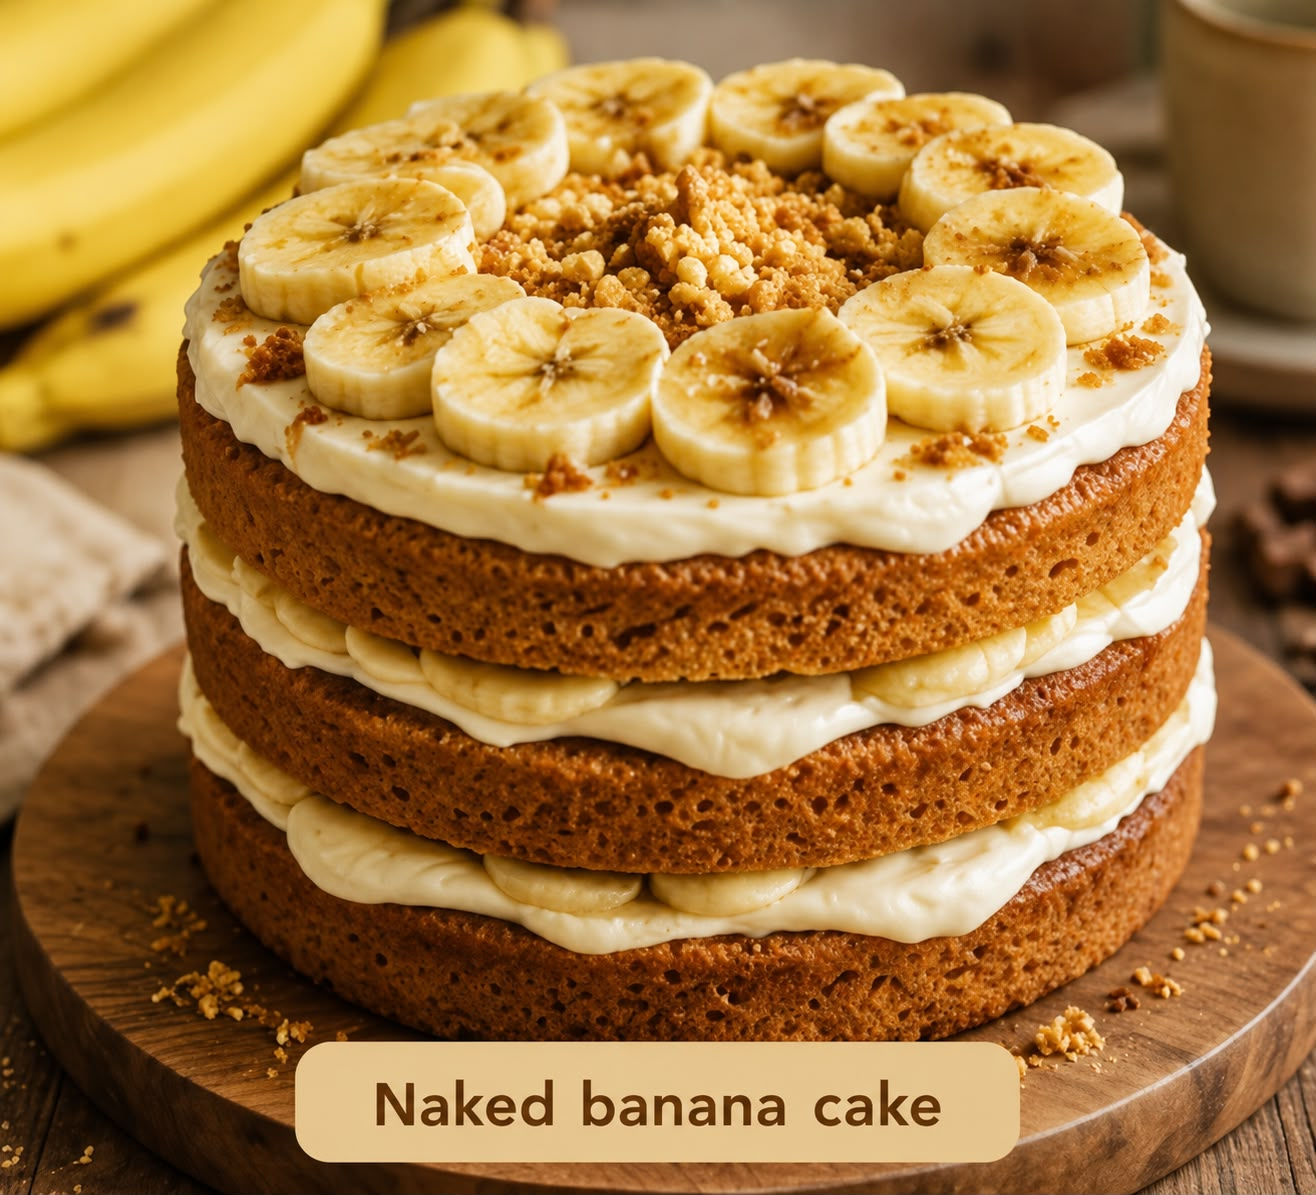
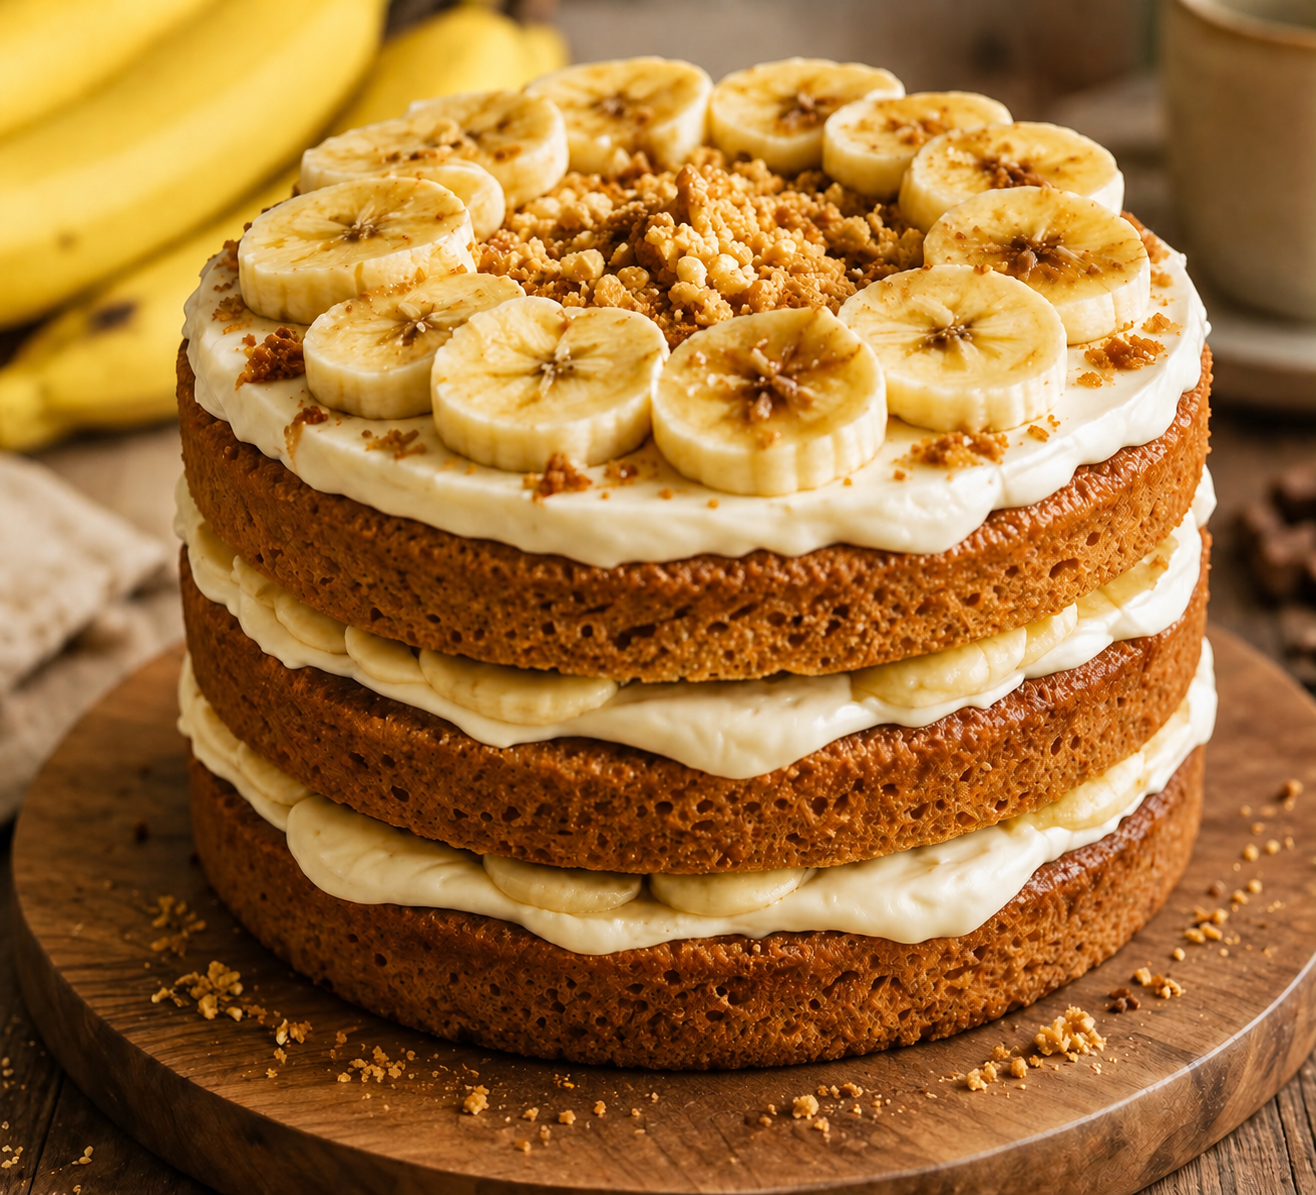
fixing review form and home page

diff --git a/assets/scripts/pages/reviews.js b/assets/scripts/pages/reviews.js
@@ -278,7 +278,8 @@ export default function CustomerReviews() {
         </p>
 
         <form
-          onsubmit="event.preventDefault(); window.handleReviewSubmit && window.handleReviewSubmit(event);"
+          id="reviewForm"
+          onsubmit="event.preventDefault(); window.handleReviewSubmit && window.handleReviewSubmit(event); this.reset();"
           class="max-w-2xl mx-auto space-y-6"
         >
 
@@ -301,15 +302,55 @@ export default function CustomerReviews() {
               <label for="reviewFavourite" class="block text-sm font-semibold text-amber-900 mb-1">
                 Favourite Item
               </label>
-              <input
-                type="text"
+              <select
                 id="reviewFavourite"
                 name="reviewFavourite"
-                placeholder="e.g. Original Banana Cake"
-                class="w-full rounded-lg border border-amber-200 px-4 py-2.5 text-gray-700 placeholder-gray-400 focus:outline-none focus:ring-2 focus:ring-amber-400 focus:border-amber-400"
-              />
+                class="w-full rounded-lg border border-amber-200 px-4 py-2.5 text-gray-700 bg-white focus:outline-none focus:ring-2 focus:ring-amber-400 focus:border-amber-400"
+              >
+                <option value="">Select an item</option>
+
+                <optgroup label="Signature Cakes">
+                  <option value="naked-banana-cake">Naked Banana Cake</option>
+                  <option value="chocolate-banana-cake">Chocolate Banana Cake</option>
+                  <option value="caramel-banana-cake">Caramel Banana Cake</option>
+                  <option value="walnut-banana-loaf">Walnut Banana Loaf</option>
+                </optgroup>
+
+                <optgroup label="Coffee & Lattes">
+                  <option value="iced-banana-latte">Iced Banana Latte</option>
+                  <option value="signature-latte">Signature Latte</option>
+                  <option value="cappuccino">Cappuccino</option>
+                </optgroup>
+
+                <optgroup label="Smoothies">
+                  <option value="classic-banana-smoothie">Classic Banana Smoothie</option>
+                  <option value="strawberry-banana-smoothie">Strawberry Banana Smoothie</option>
+                  <option value="tropical-banana-smoothie">Tropical Banana Smoothie</option>
+                </optgroup>
+
+                <optgroup label="Milkshakes">
+                  <option value="banana-milkshake">Banana Milkshake</option>
+                  <option value="chocolate-banana-milkshake">Chocolate Banana Milkshake</option>
+                </optgroup>
+
+                <optgroup label="Freshly Baked Pastries">
+                  <option value="banana-cupcake">Banana Cupcake</option>
+                  <option value="sweet-bliss-cookies">Sweet Bliss Cookies</option>
+                </optgroup>
+
+                <optgroup label="Sweet Desserts">
+                  <option value="banana-waffles">Banana Waffles</option>
+                  <option value="banana-pudding">Banana Pudding</option>
+                </optgroup>
+
+                <optgroup label="Seasonal Specials">
+                  <option value="banana-biscoff-cake">Banana Biscoff Cake</option>
+                  <option value="summer-banana-mango-smoothie">Summer Banana Mango Smoothie</option>
+                </optgroup>
+
+                <option value="other">Other</option>
+              </select>
             </div>
-          </div>
 
           <div>
             <span class="block text-sm font-semibold text-amber-900 mb-2">
@@ -322,22 +363,22 @@ export default function CustomerReviews() {
               </label>
 
               <input type="radio" id="star4" name="rating" value="4" class="peer/star4 hidden" />
-              <label for="star4" class="cursor-pointer text-gray-300 peer-checked/star4:text-amber-500 hover:text-amber-400">
+              <label for="star4" class="cursor-pointer text-gray-300 peer-checked/star5:text-amber-500 peer-checked/star4:text-amber-500 hover:text-amber-400">
                 <svg width="28" height="28" viewBox="0 0 24 24" fill="currentColor"><path d="M12 2l2.9 6.26L21 9.27l-4.5 4.39L17.8 21 12 17.77 6.2 21l1.3-7.34L3 9.27l6.1-1.01L12 2z"/></svg>
               </label>
 
               <input type="radio" id="star3" name="rating" value="3" class="peer/star3 hidden" />
-              <label for="star3" class="cursor-pointer text-gray-300 peer-checked/star3:text-amber-500 hover:text-amber-400">
+              <label for="star3" class="cursor-pointer text-gray-300 peer-checked/star5:text-amber-500 peer-checked/star4:text-amber-500 peer-checked/star3:text-amber-500 hover:text-amber-400">
                 <svg width="28" height="28" viewBox="0 0 24 24" fill="currentColor"><path d="M12 2l2.9 6.26L21 9.27l-4.5 4.39L17.8 21 12 17.77 6.2 21l1.3-7.34L3 9.27l6.1-1.01L12 2z"/></svg>
               </label>
 
               <input type="radio" id="star2" name="rating" value="2" class="peer/star2 hidden" />
-              <label for="star2" class="cursor-pointer text-gray-300 peer-checked/star2:text-amber-500 hover:text-amber-400">
+              <label for="star2" class="cursor-pointer text-gray-300 peer-checked/star5:text-amber-500 peer-checked/star4:text-amber-500 peer-checked/star3:text-amber-500 peer-checked/star2:text-amber-500 hover:text-amber-400">
                 <svg width="28" height="28" viewBox="0 0 24 24" fill="currentColor"><path d="M12 2l2.9 6.26L21 9.27l-4.5 4.39L17.8 21 12 17.77 6.2 21l1.3-7.34L3 9.27l6.1-1.01L12 2z"/></svg>
               </label>
 
               <input type="radio" id="star1" name="rating" value="1" class="peer/star1 hidden" />
-              <label for="star1" class="cursor-pointer text-gray-300 peer-checked/star1:text-amber-500 hover:text-amber-400">
+              <label for="star1" class="cursor-pointer text-gray-300 peer-checked/star5:text-amber-500 peer-checked/star4:text-amber-500 peer-checked/star3:text-amber-500 peer-checked/star2:text-amber-500 peer-checked/star1:text-amber-500 hover:text-amber-400">
                 <svg width="28" height="28" viewBox="0 0 24 24" fill="currentColor"><path d="M12 2l2.9 6.26L21 9.27l-4.5 4.39L17.8 21 12 17.77 6.2 21l1.3-7.34L3 9.27l6.1-1.01L12 2z"/></svg>
               </label>
             </fieldset>

diff --git a/assets/scripts/pages/home.js b/assets/scripts/pages/home.js
@@ -47,8 +47,7 @@ export default function HomePage() {
            <h3>Signature Cakes</h3>
 
            <p>
-            Our signature naked banana cake features soft banana sponge layers,
-            smooth whipped cream, and fresh banana slices, creating a light and refreshing dessert perfect for any occasion.
+            Discover our signature banana cakes, freshly baked with ripe bananas and carefully selected ingredients. From timeless favourites to indulgent creations, every slice is made to bring out the naturally sweet and comforting flavour of banana.
            </p>
 
            <a href="#/menu"
@@ -64,8 +63,7 @@ export default function HomePage() {
         <div class="category-card">
           <div>
             <h3>Drinks</h3>
-            <p>Fresh smoothies,rich vanilla ice cream blended with bananas and 
-            topped with whipped cream coffee and refreshing beverages.</p>
+            <p>Refresh yourself with our signature banana drinks, blended with creamy, delicious ingredients for the perfect treat. From fruity favourites to rich and indulgent blends, there’s a drink for every banana lover.</p>
            <a href="#/menu"
             class="inline-block mt-6 bg-yellow-600 text-white px-6 py-3 rounded-full font-semibold hover:bg-yellow-700 transition">
             View Menu
@@ -79,48 +77,62 @@ export default function HomePage() {
           <img src="/assets/images/promos/promo.jpeg" alt="Promotions">
           <div>
             <h3>Promotions</h3>
-            <p>Enjoy exciting seasonal offers and exclusive deals.</p>
-            <a href="#/menu"
+            <p>Enjoy more of your favourite banana treats for less! Discover our latest deals, seasonal specials, and exclusive offers on selected cakes, drinks, and more.</p>
+            <a href="#/promotions"
             class="inline-block mt-6 bg-yellow-600 text-white px-6 py-3 rounded-full font-semibold hover:bg-yellow-700 transition">
-            View Menu
+            View Promos
           </a>
           </div>
         </div>
       </section>
 
       <!-- Featured Products -->
-      <section class="featured-products">
-        <h2>Featured Bestsellers</h2>
+      <section>
+        <h2 class="text-3xl md:text-5xl font-bold text-amber-900 mt-8 mb-6">Featured Bestsellers</h2>
 
-        <div class="product-grid">
-          <div class="product-card">
-            <img src="/assets/images/menu/cakes/naked-banana.jpeg" alt="Naked Banana Cake">
-            <h3>Original Banana Cake</h3>
-            <p>Our original favourite made fresh daily.</p>
+        <div class="grid md:grid-cols-3 gap-5 md:gap-6">
+
+          <div class="bg-white rounded-2xl shadow-md overflow-hidden">
+            <img src="/assets/images/menu/cakes/naked-banana.jpeg" alt="Naked Banana Cake" class="w-full aspect-square object-cover" />
+            <div class="p-6">
+              <h3 class="text-lg font-bold text-amber-900 mb-1">Naked Banana Cake</h3>
+              <p class="text-gray-700 leading-6 text-sm">A soft and moist banana cake, lightly layered with smooth cream.</p>
+            </div>
           </div>
 
-          <div class="product-card">
-            <img src="/assets/images/menu/cakes/chocolate.jpeg" alt="Chocolate Banana Cake">
-            <h3>Chocolate Banana Cake</h3>
-            <p>Rich chocolate paired with sweet bananas.</p>
+          <div class="bg-white rounded-2xl shadow-md overflow-hidden">
+            <img src="/assets/images/menu/cakes/chocolate.jpeg" alt="Chocolate Banana Cake" class="w-full aspect-square object-cover" />
+            <div class="p-6">
+              <h3 class="text-lg font-bold text-amber-900 mb-1">Chocolate Banana Cake</h3>
+              <p class="text-gray-700 leading-6 text-sm">Rich chocolate paired with sweet bananas.</p>
+            </div>
           </div>
 
-          <div class="product-card">
-            <img src="/assets/images/menu/drinks/smoothies/banana.jpeg" alt="Banana Smoothie">
-            <h3>Banana Smoothie</h3>
-            <p>Creamy, refreshing and naturally sweet.</p>
+          <div class="bg-white rounded-2xl shadow-md overflow-hidden">
+            <img src="/assets/images/menu/drinks/smoothies/banana.jpeg" alt="Banana Smoothie" class="w-full aspect-square object-cover" />
+            <div class="p-6">
+              <h3 class="text-lg font-bold text-amber-900 mb-1">Banana Smoothie</h3>
+              <p class="text-gray-700 leading-6 text-sm">Creamy, refreshing and naturally sweet.</p>
+            </div>
           </div>
+
         </div>
       </section>
 
       <!-- Promotion Banner -->
-      <section class="promotion-banner">
-        <h2>Current Promotion</h2>
-        <p>
-          Buy any Signature Banana Cake and enjoy
-          <strong>20% OFF</strong> your second slice.
+      <section class="rounded-2xl p-8 md:p-12 text-center mt-8" style="background-color:#A9752E;">
+        <h2 class="text-3xl md:text-5xl font-bold mb-4" style="color:#FFFFFF;">Current Promotion</h2>
+        <p class="text-lg leading-8 max-w-2xl mx-auto mb-6" style="color:#FFEFD1;">
+          Buy any Signature Banana Cake and enjoy <strong style="color:#FFFFFF;">20% OFF</strong> your second slice.
         </p>
+        <a href="#/promotions" class="inline-flex items-center justify-center rounded-full font-semibold px-8 py-3 bg-amber-400 text-amber-950 shadow-md hover:-translate-y-0.5 transition">
+          See All Promotions
+        </a>
       </section>
+
+      <footer class="pt-4 pb-10 border-t border-amber-200 text-center">
+        <p class="font-semibold text-lg text-[#59571B]">Made fresh, one banana at a time.</p>
+      </footer>
 
     </main>
   `;
